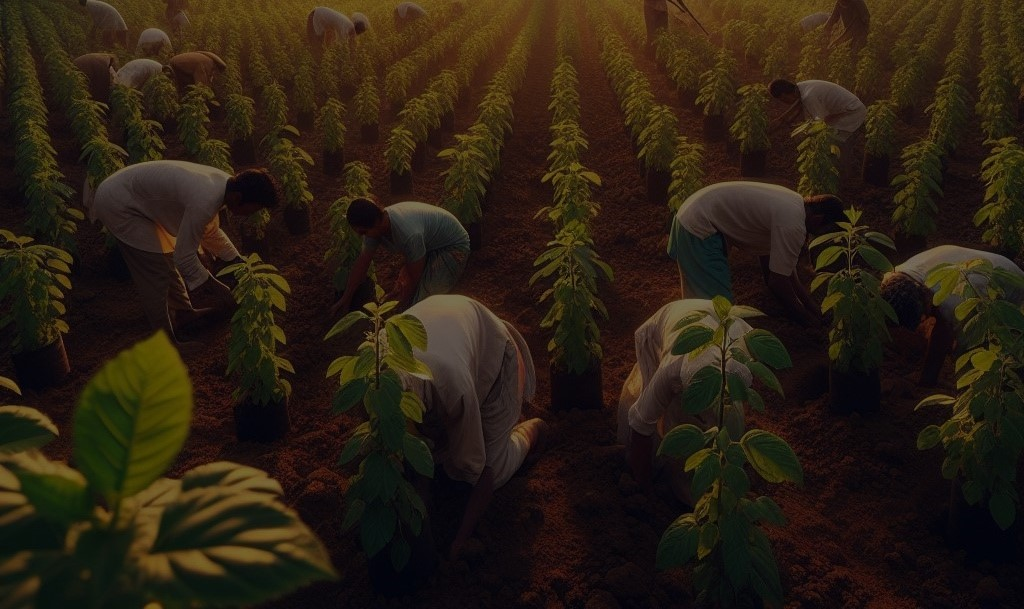
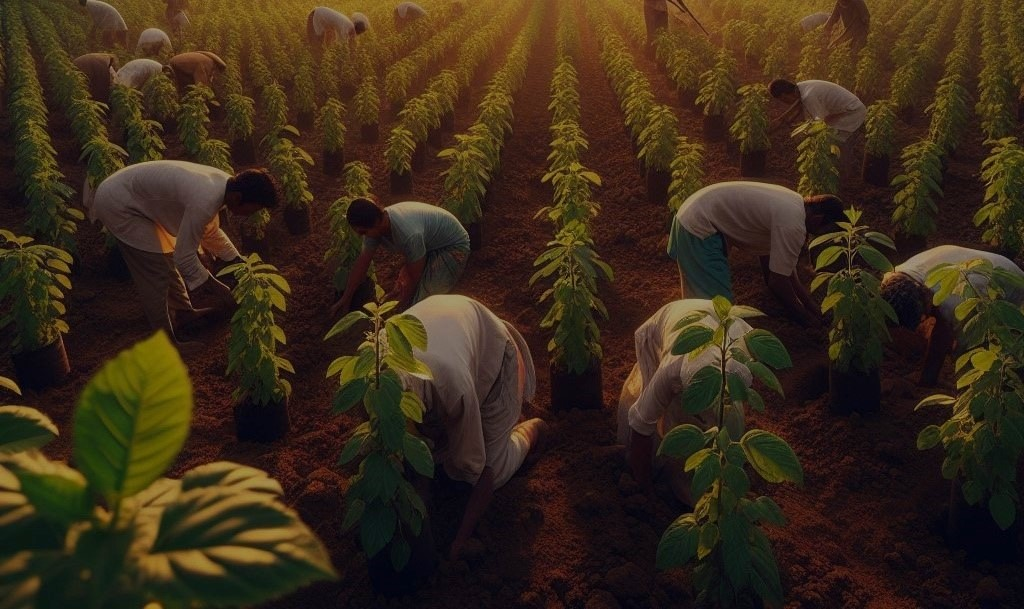
new file:   assets/images/Blog-Soil-Nutrients.jpg 	modified:   assets/images/img_12.jpg 	modified:   contact.html

diff --git a/contact.html b/contact.html
@@ -11,7 +11,7 @@
 <body>
     <!-- bg-body-tertiary -->
     <div class="home-container  vh-100 w-100 p-0 m-0"
-      style="background-image: url('./assets/images/img_18.png');background-size: cover; background-repeat: no-repeat; background-position:center;">
+      style="background-image: url('./assets/images/Blog-Soil-Nutrients.jpg');background-size: cover; background-repeat: no-repeat; background-position:center;">
       <nav class="navbar navbar-expand-lg p-0" style="background-color: whitesmoke;">
           <div class="container">
             <a class="navbar-brand p-0" href="#"><img src="./assets/images/logo.png" style="width: 130px;"/></a>
